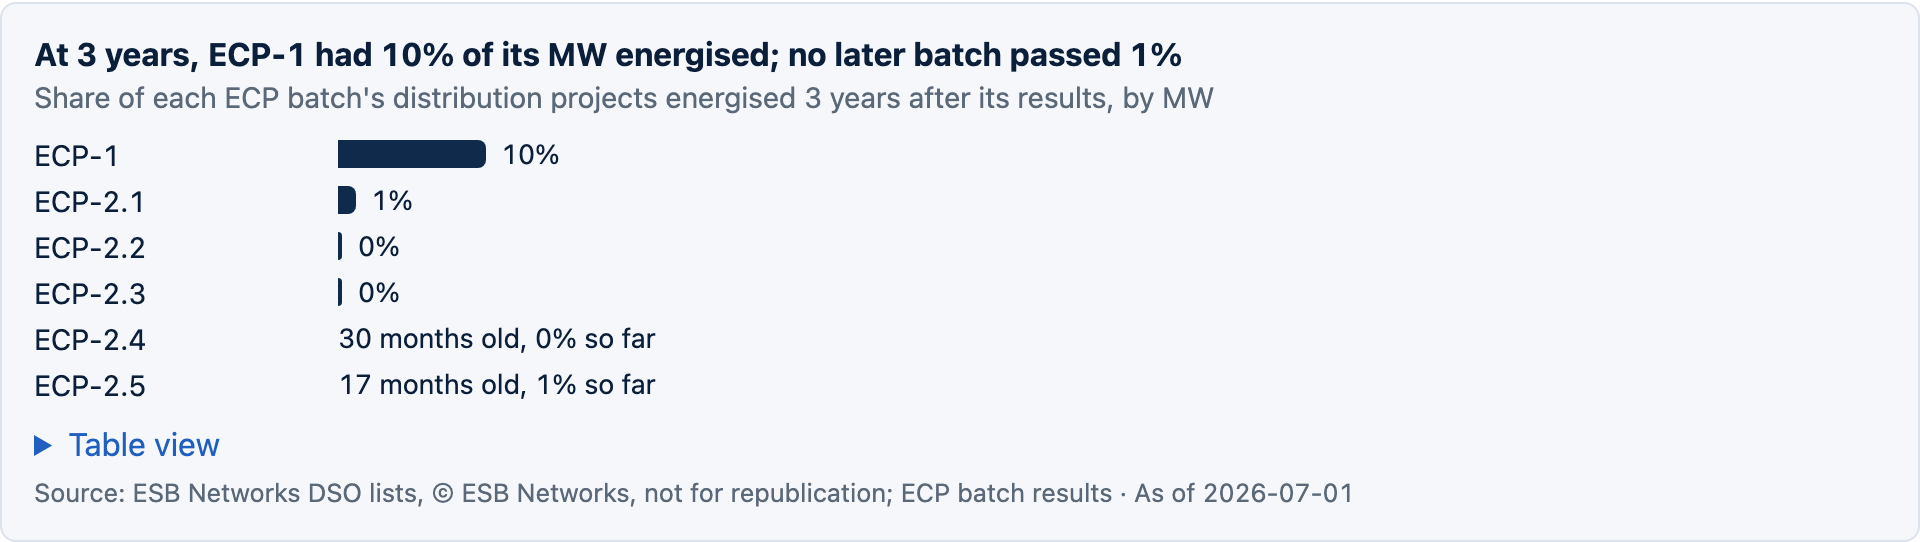
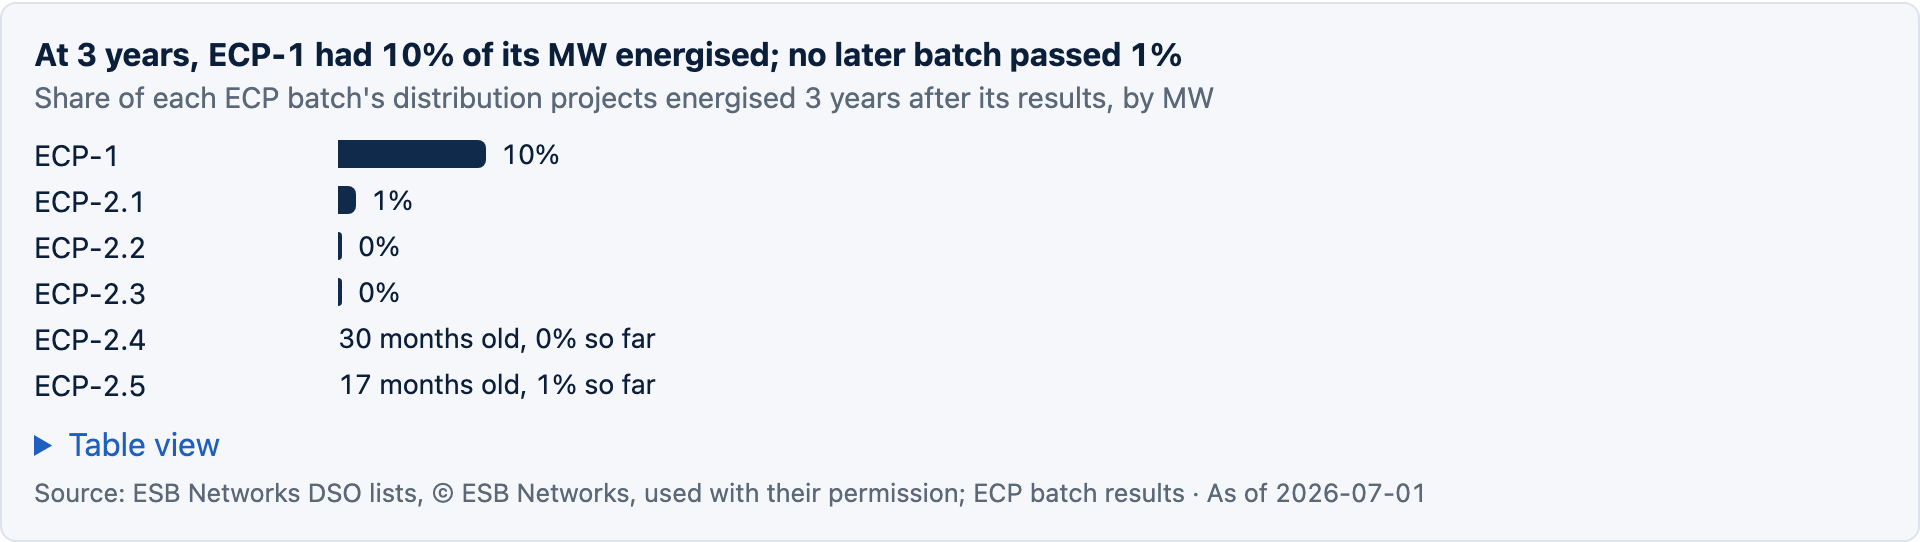
README: charts for the analysis layers; refresh exhibits with the new credit lines

Changed region(s): [[0.3438, 0.8856, 0.75, 0.9446]]

diff --git a/README.md b/README.md
@@ -71,6 +71,27 @@ ESB Networks and EirGrid have each confirmed permission to use their lists here.
 
 Built on the record, each with its own README and tests (`docs/layers/`): connected outcomes, delivery pace, target slippage, the ECP funnel, an errata ledger of where the lists disagree, ESB's older lists, an external check against a published wind total, and sourced resolutions of open questions. Start with `docs/layers/00-decisions.md`; `docs/layers/BRING-IN.md` lists the expected numbers.
 
+**What became of the projects that left.** 86 projects (4.53 GW) left the contracted lists for good. 20 are on EirGrid's connected lists by ref and 8 more connected as phases of one; 5 were refused planning or reorganised into a project that did connect, each with its source; 47 stay unknown rather than being read as not connected.
+
+![What became of the projects that left the contracted lists](docs/img/left.png)
+
+**How long the queue would take at past paces.** At the 2023-25 pace the 1.96 GW distribution queue is 19.2 years of delivery, at the fastest three years (2017-19) 7.6; it is not a forecast, because most contracted MW never energises.
+
+![MW energised each year, distribution](docs/img/pace-dso.png)
+![MW energised each year, transmission wind](docs/img/pace-tso.png)
+
+**Promises against delivery.** 15 of 16 followable wind projects connected after the target EirGrid first printed, by a median 8 months to first listing.
+
+![Months from the target connection month to completion](docs/img/slippage.png)
+
+**From offer to list.** 29% to 62% of what each ECP batch offered has ever appeared on a contracted list, counted two independent ways.
+
+![Share of each ECP batch's offers found on the lists](docs/img/funnel.png)
+
+**A check against a published total.** The two publishers' wind lists add to 4,410 MW at end-2022 against 4,536 MW published (IEA Wind TCP, from SEAI): 126 MW short, 70 MW of it already there a year earlier.
+
+![Wind on the lists against the published national total](docs/img/external.png)
+
 ## Layout
 
     src/iegrid/     ingest, parse, load, report and the layer modules
